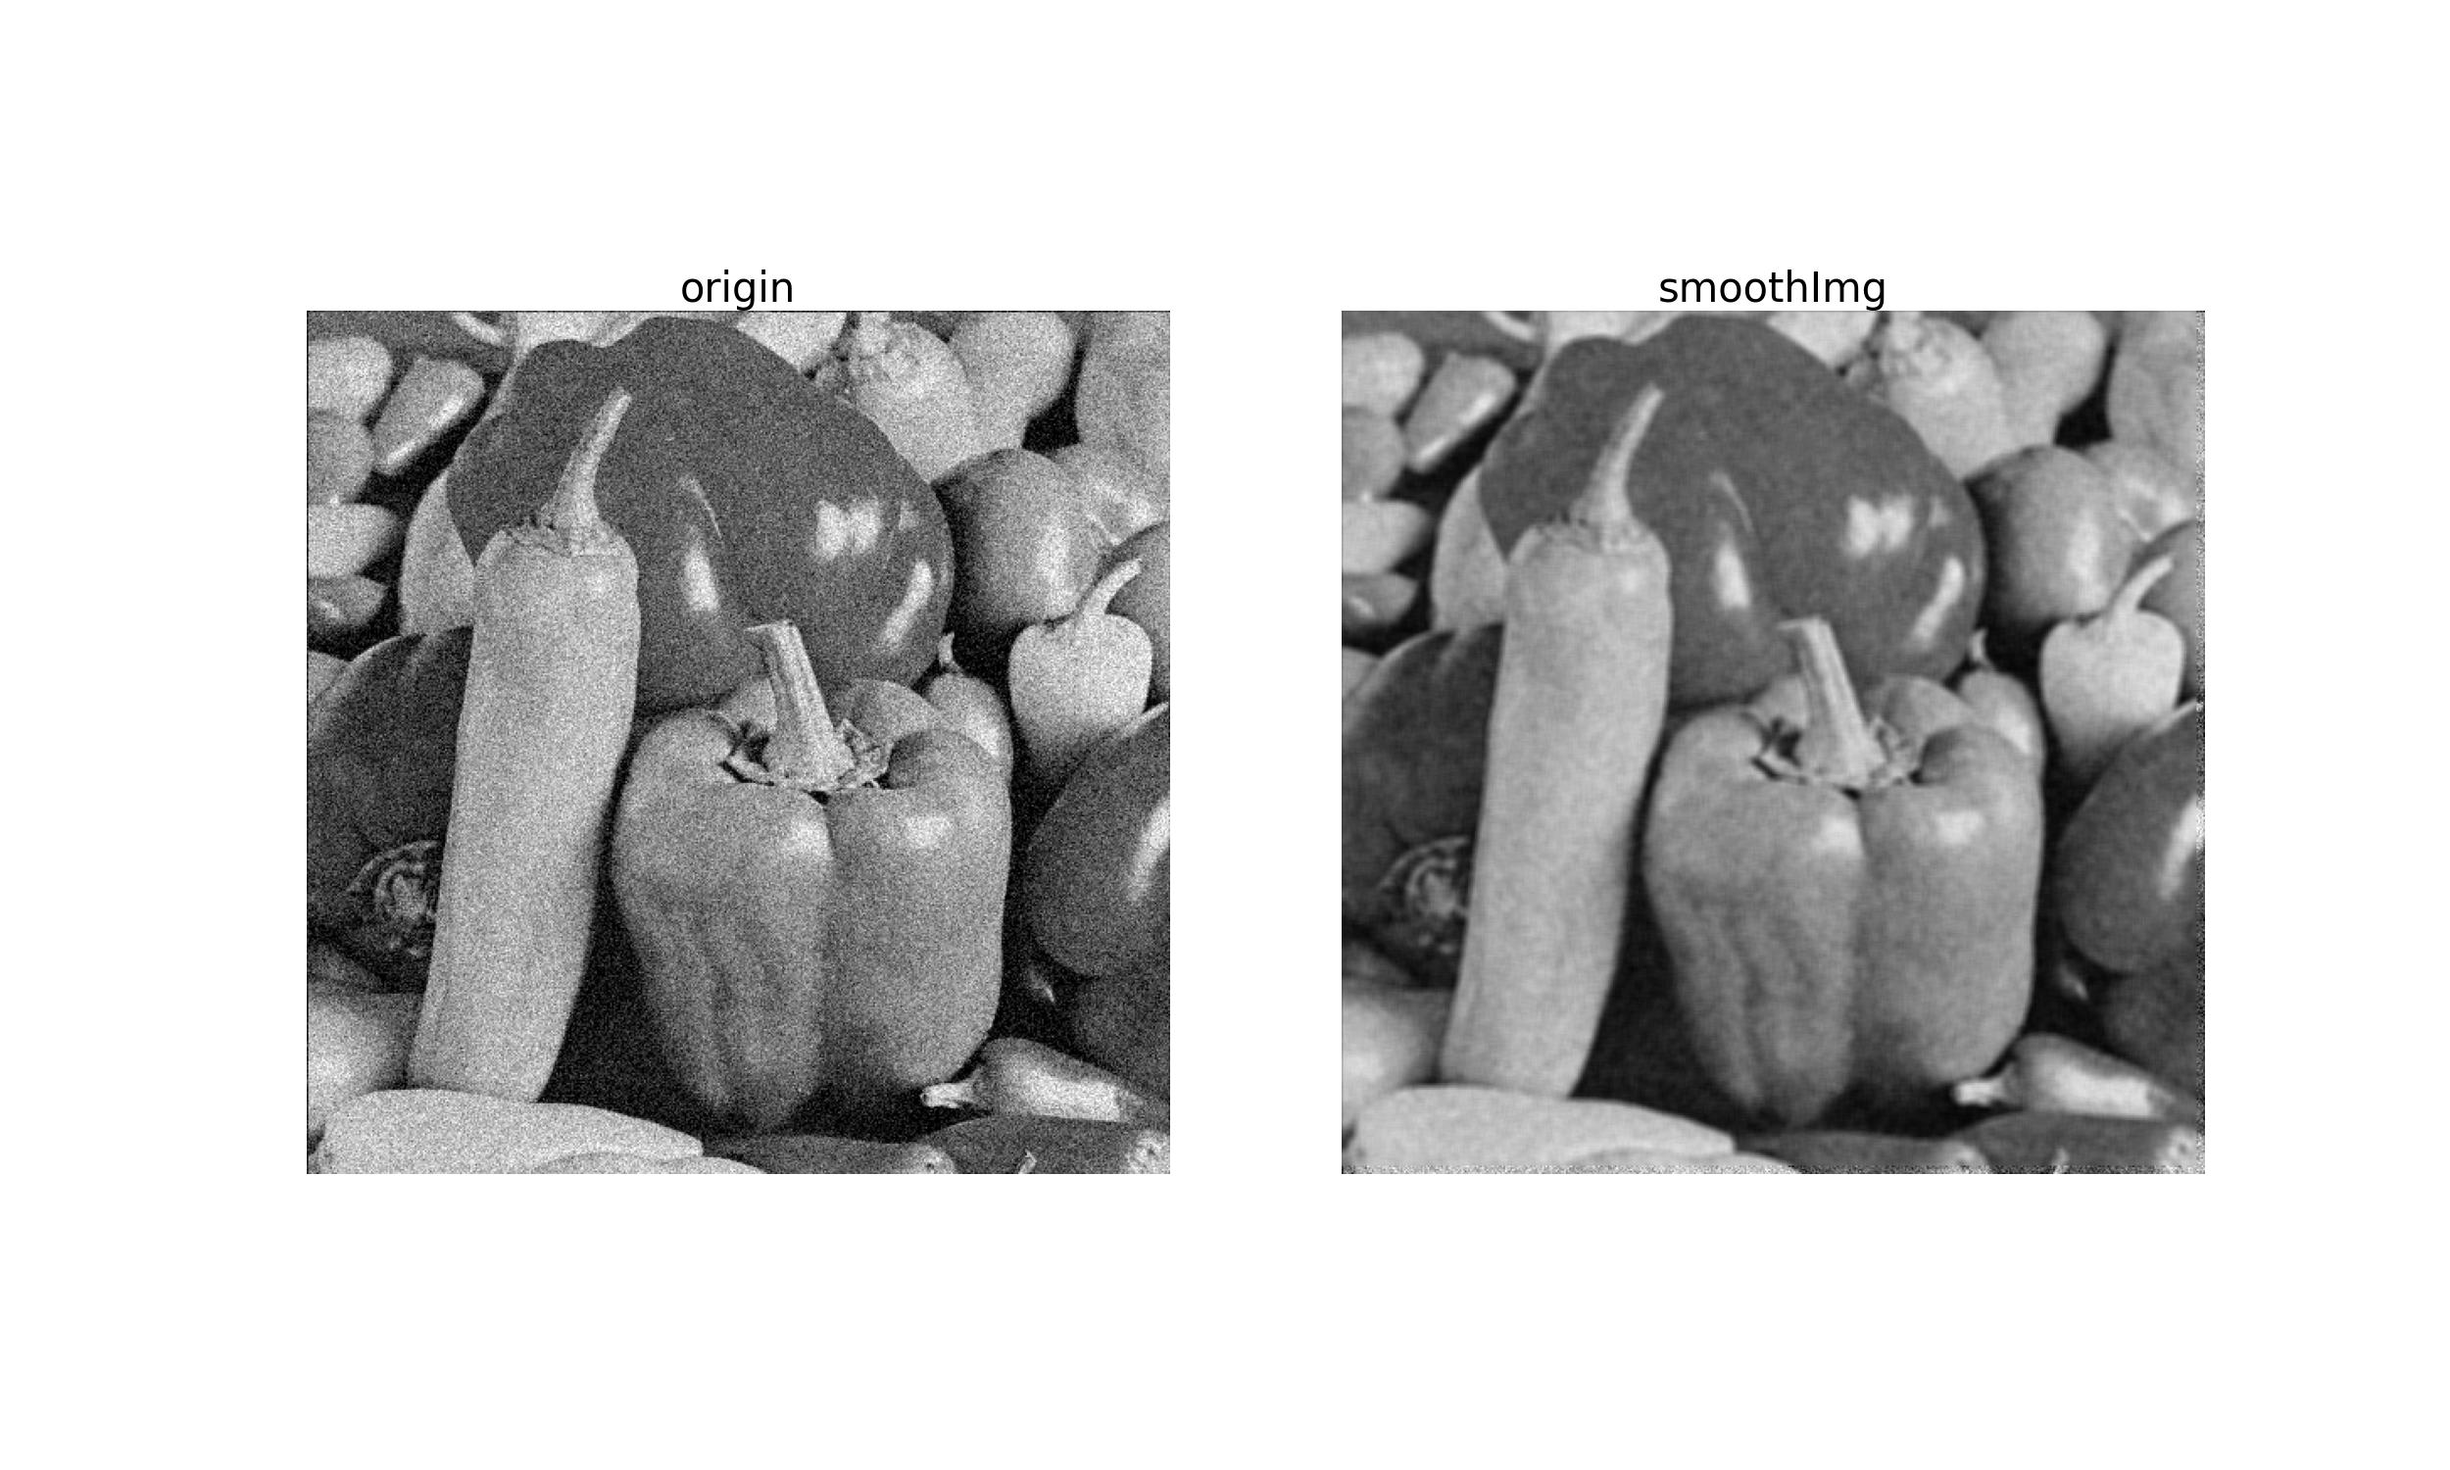
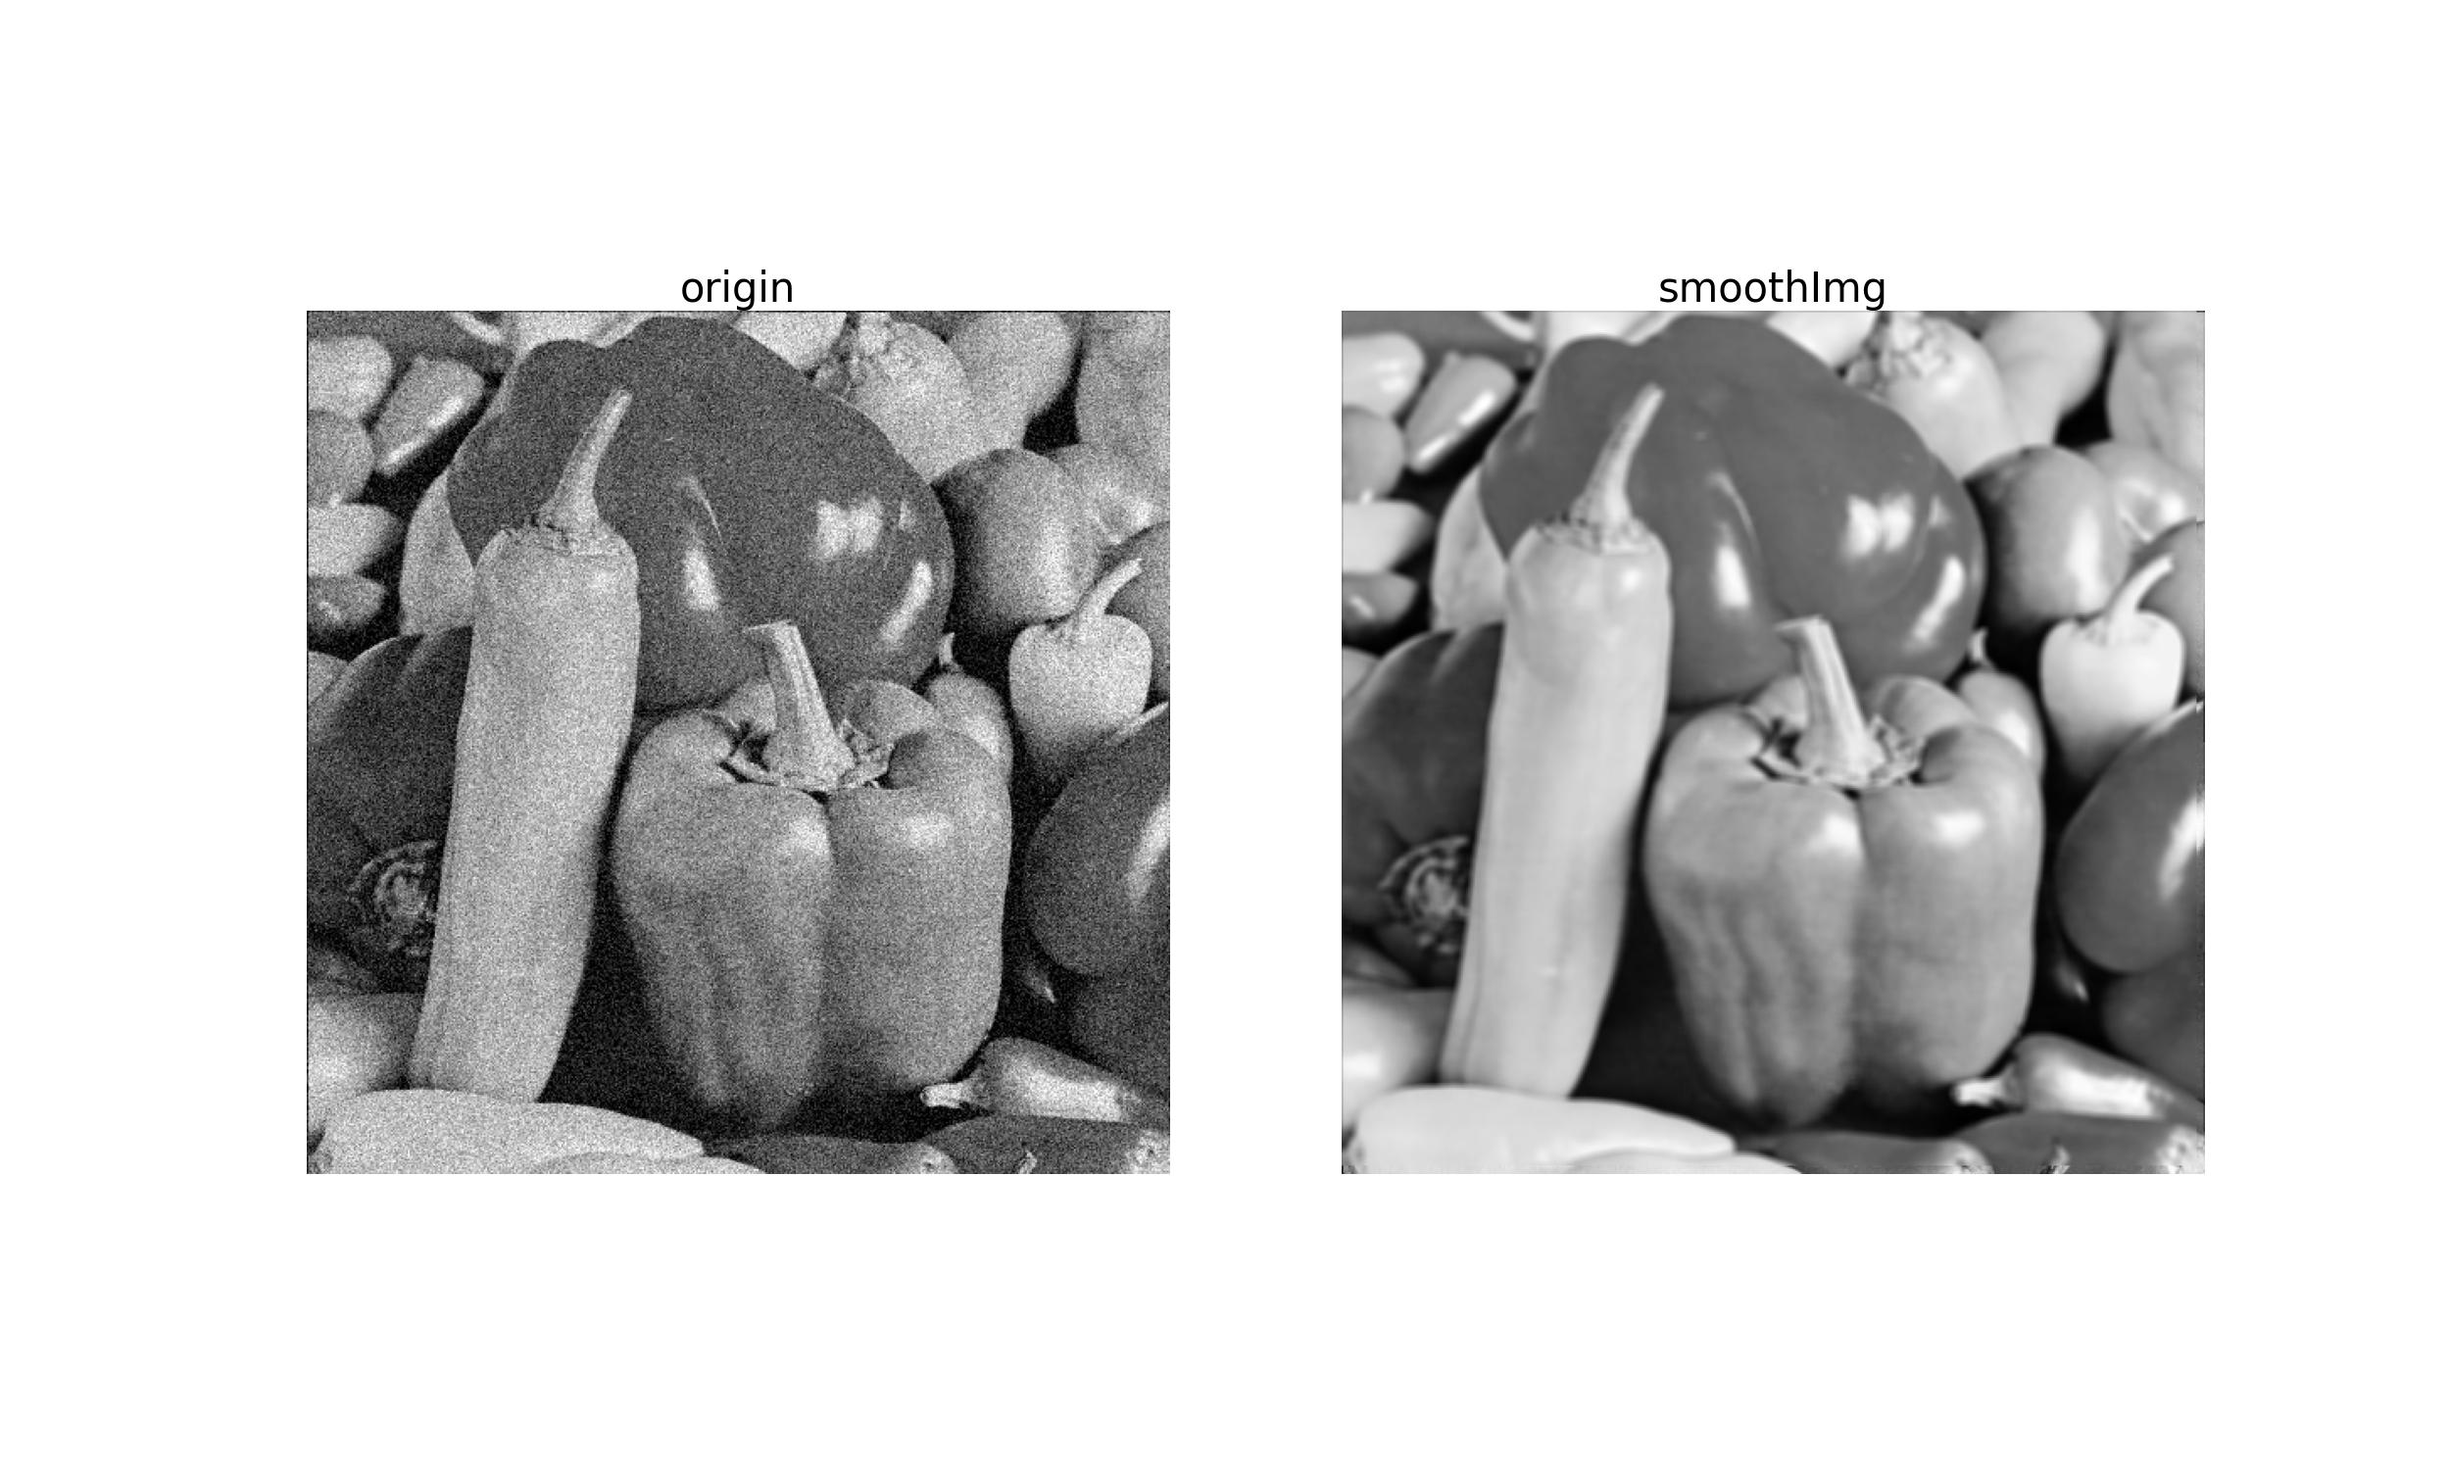
高斯模糊代码修改

diff --git a/gaussianSmooth.py b/gaussianSmooth.py
@@ -17,8 +17,7 @@ def gaussianSmooth(img_gray):
     gaussian = np.zeros([5, 5])
     for i in range(5):
         for j in range(5):
-            gaussian[i, j] = math.exp((-1 / (2 * sigma * sigma)) * (np.square(i - 3) + np.square(j - 3))) / (
-                    2 * math.pi * sigma * sigma)
+            gaussian[i, j] = math.exp((-1 / (2 * sigma * sigma)) * (np.square(i - 2) + np.square(j - 2)))
             gau_sum = gau_sum + gaussian[i, j]
     # 2.高斯滤波器归一化处理
     gaussian = gaussian / gau_sum
@@ -49,7 +48,7 @@ def gauss_noise(img, mean=0, sigma=25):
 img = cv2.imread('PeppersRGB.tif')
 grayImg = cv2.cvtColor(img, cv2.COLOR_BGR2GRAY)
 noiseImg=gauss_noise(grayImg)
-smoothImg = gaussianSmooth(noiseImg)
+smoothImg = gaussianSmooth(grayImg)
 iS.showImagegray(smoothImg, noiseImg, 25, 15, 'smoothImg', 'origin', './GaussianSmooth.jpg')
 GaussianBlur_opencv=cv2.GaussianBlur(noiseImg,(5,5),25)
 iS.showImagegray(GaussianBlur_opencv,noiseImg , 25, 15, 'GaussianBlur_opencv', 'origin', './GaussianSmooth_Opencv.jpg')
